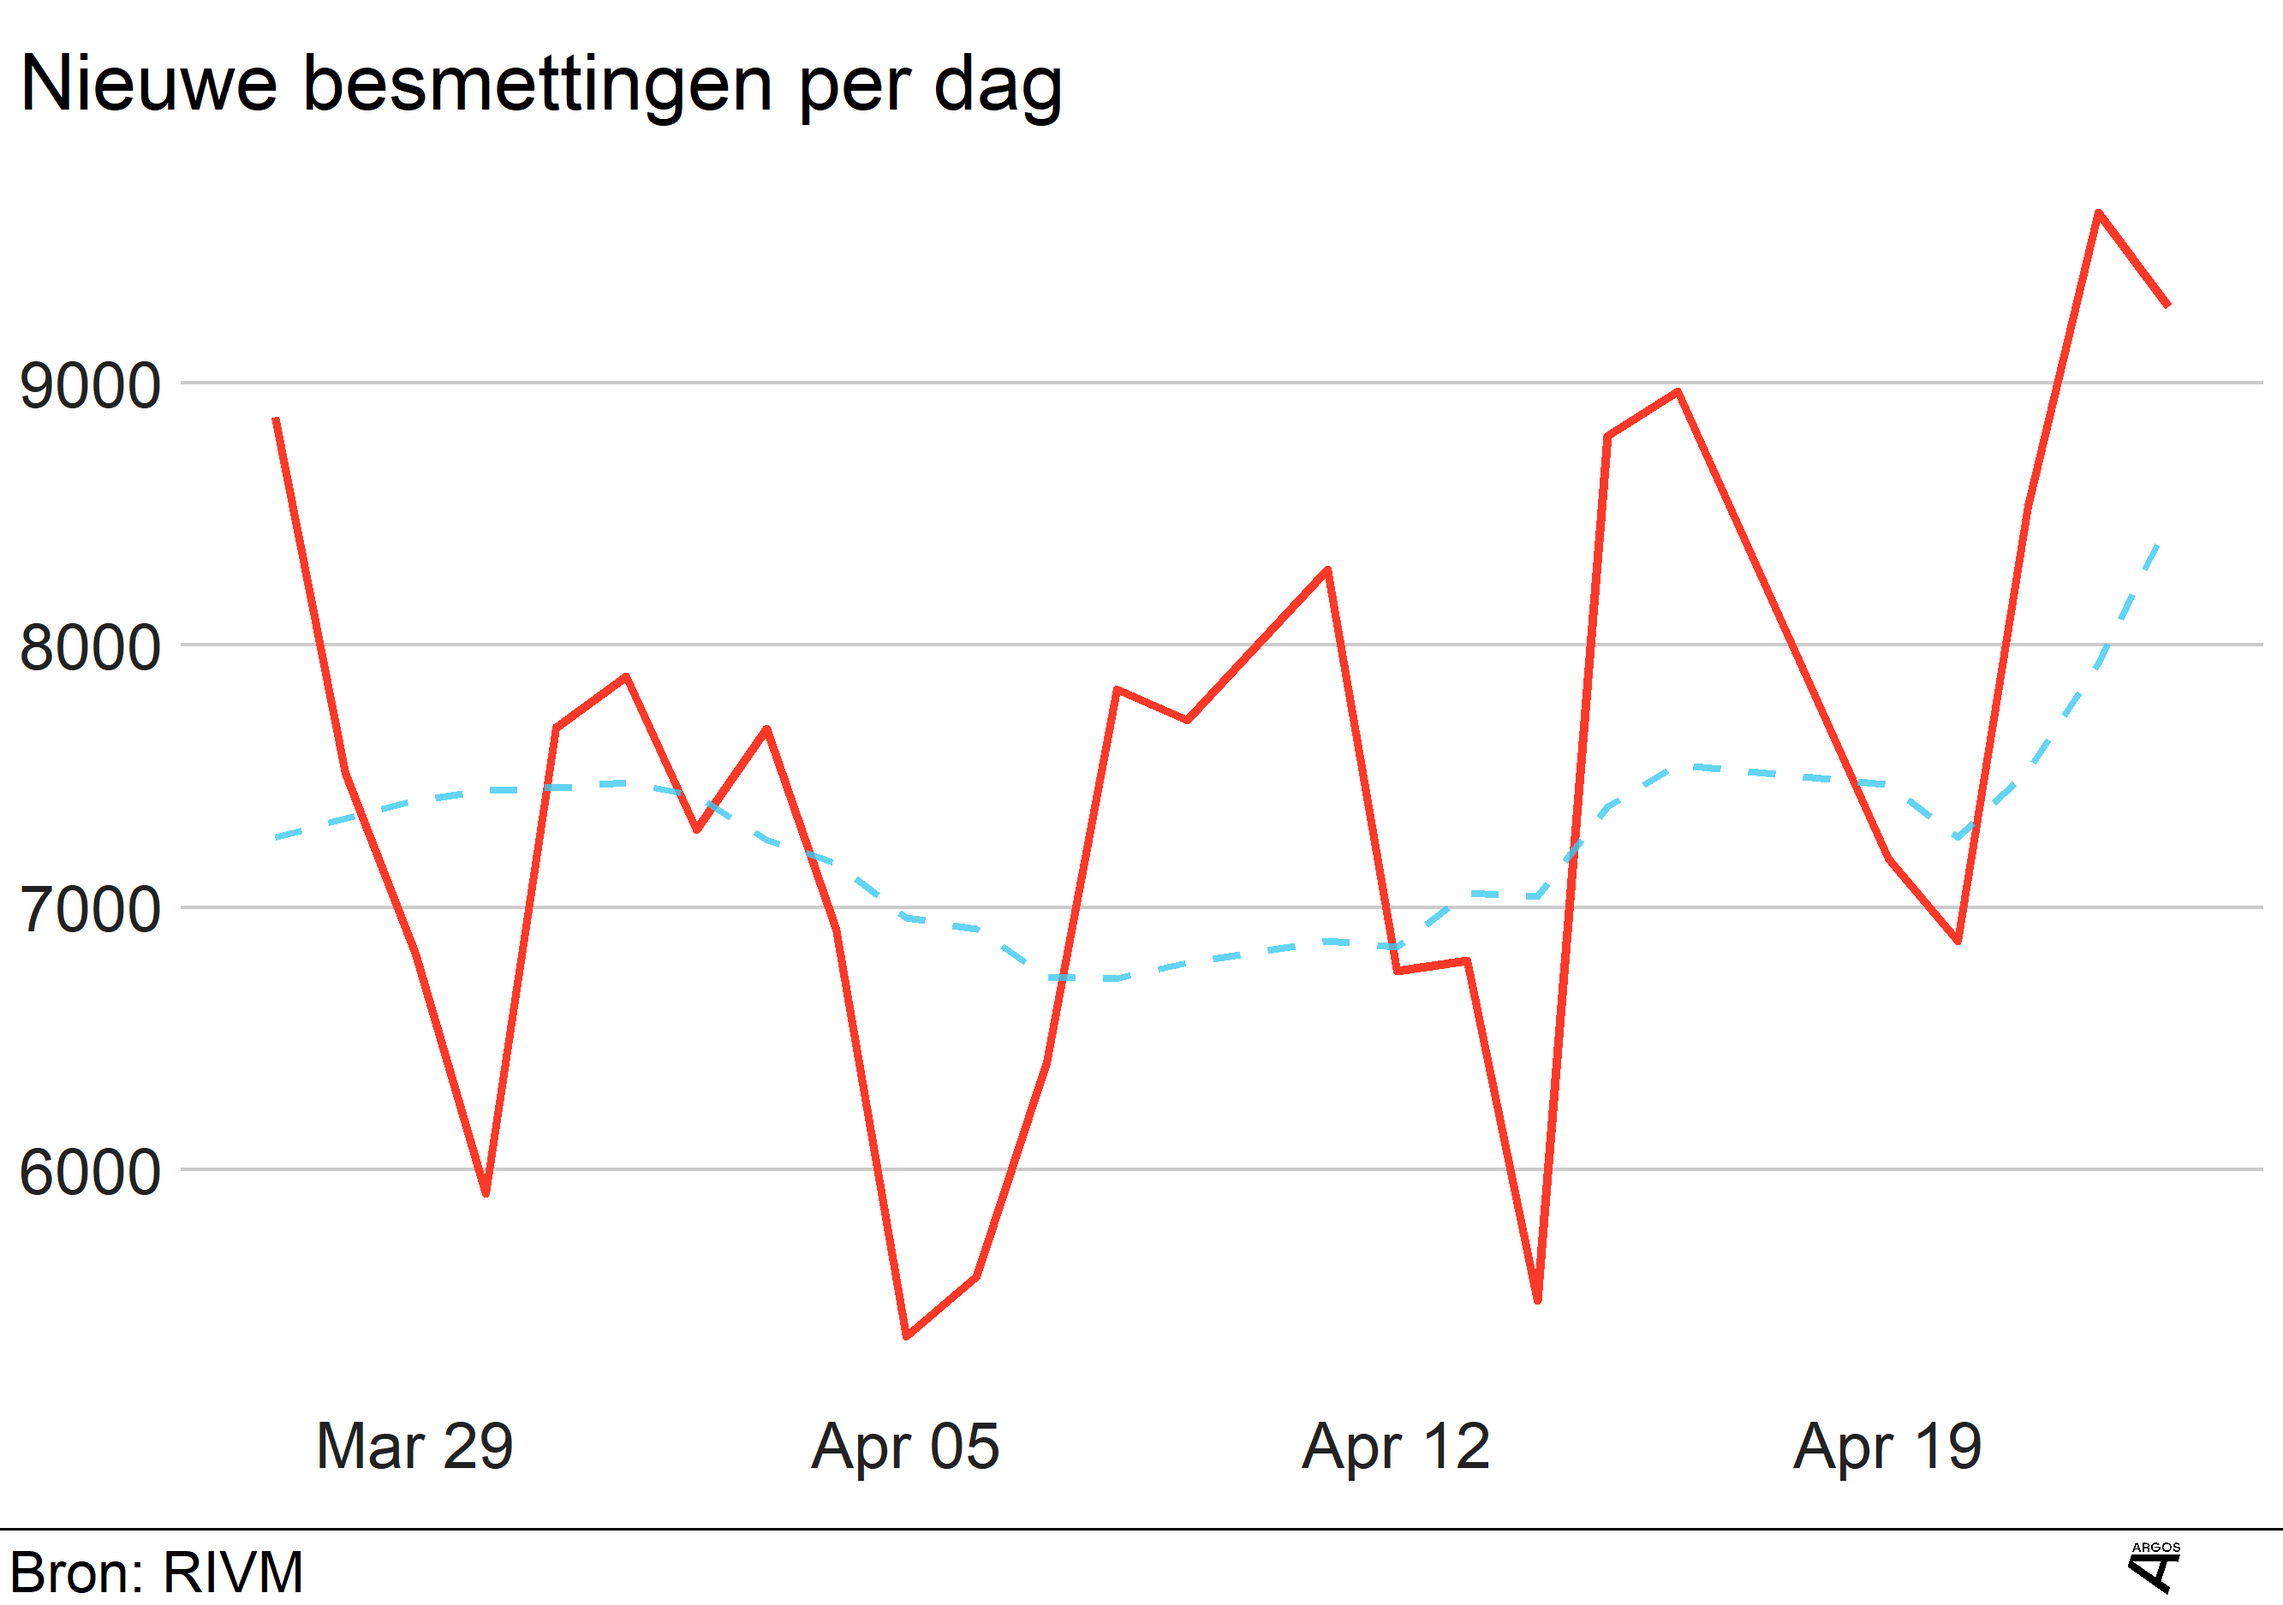
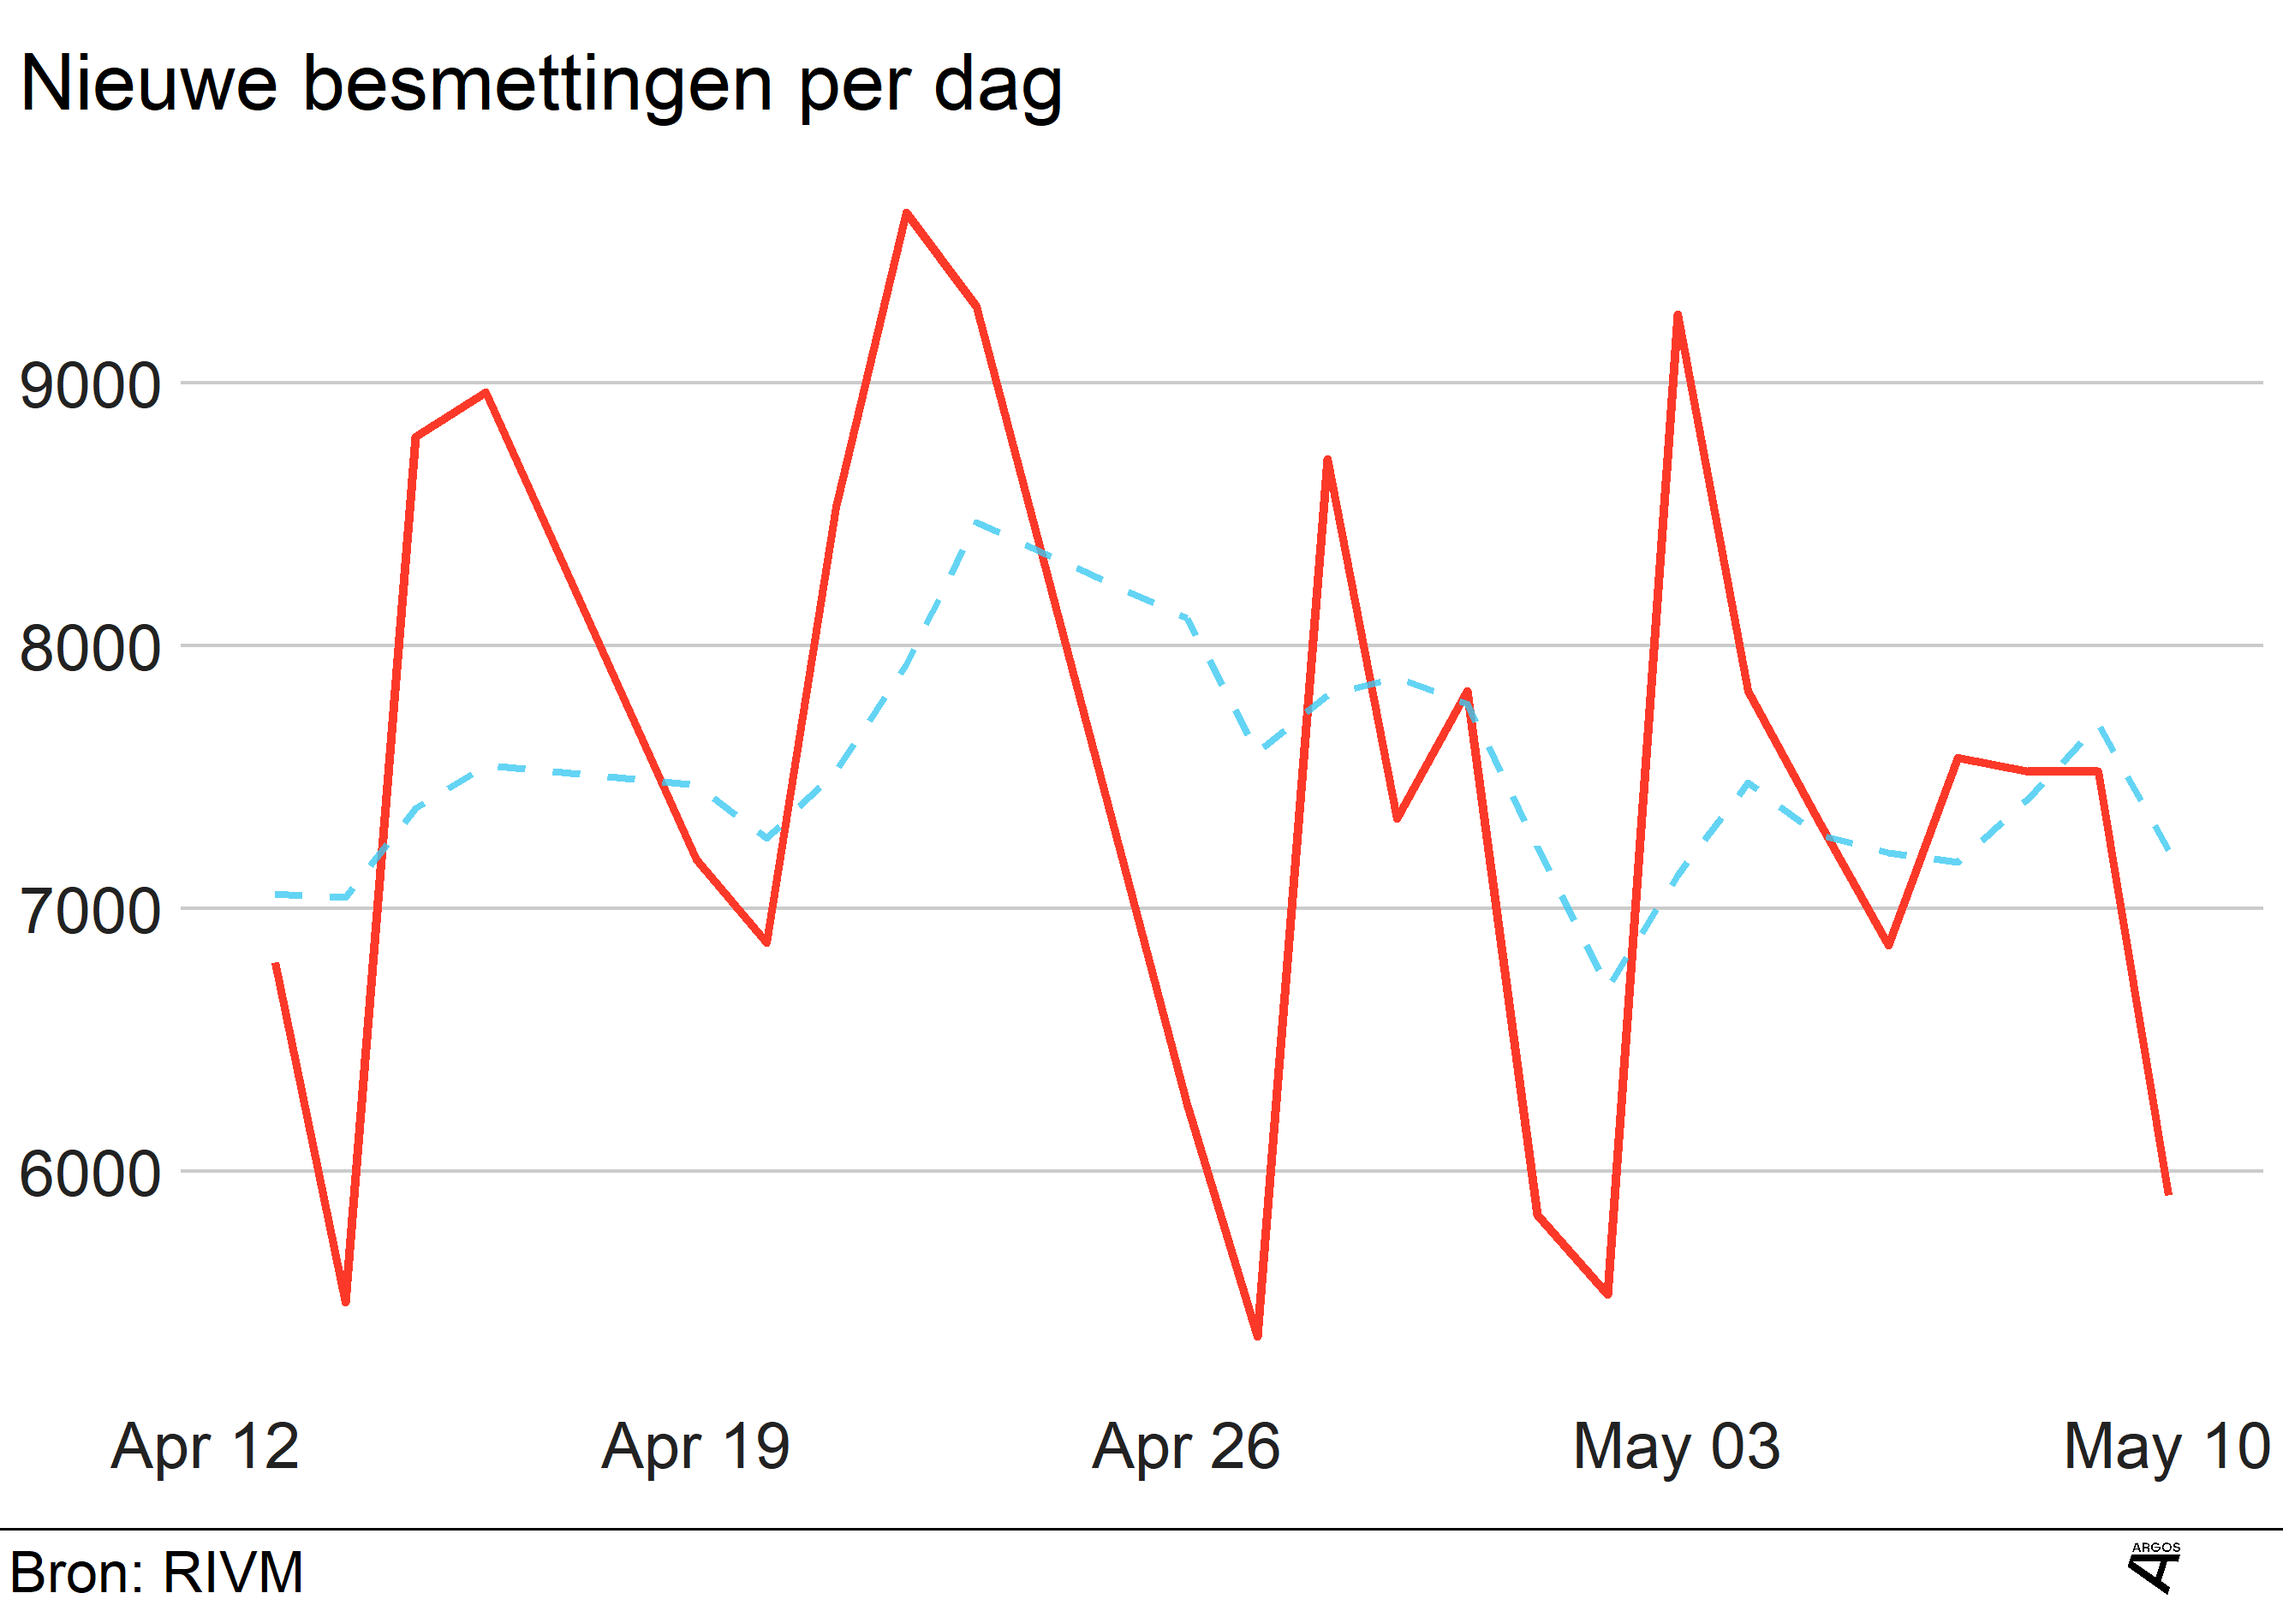
week 11 mei tikker

diff --git a/radio1_tekst.html b/radio1_tekst.html
@@ -11,7 +11,7 @@
 
 <meta name="author" content="Door Reinier Tromp" />
 
-<meta name="date" content="2021-04-23" />
+<meta name="date" content="2021-05-10" />
 
 <title>De Argos/NPO Radio 1 Coronatikker</title>
 
@@ -181,7 +181,7 @@ summary {
 
 <h1 class="title toc-ignore">De Argos/NPO Radio 1 Coronatikker</h1>
 <h4 class="author">Door Reinier Tromp</h4>
-<h4 class="date">23 April 2021</h4>
+<h4 class="date">10 May 2021</h4>
 
 </div>
 
@@ -191,28 +191,28 @@ summary {
 <h2>Nieuwe coronacijfers vandaag:</h2>
 <div id="bevestigde-besmettingen" class="section level3">
 <h3>Bevestigde besmettingen</h3>
-<p>Nieuwe besmettingen: <strong>9292</strong></p>
-<p>Totaal besmettingen: <strong>1445064</strong></p>
+<p>Nieuwe besmettingen: <strong>5910</strong></p>
+<p>Totaal besmettingen: <strong>1565880</strong></p>
 </div>
 <div id="lcps-ziekenhuizen" class="section level3">
 <h3>LCPS Ziekenhuizen</h3>
-<p>Nu op de verpleegafdeling:<strong>1.776 (-67</strong></p>
-<p>Nieuwe opnames verpleeg: <strong>237</strong></p>
+<p>Nu op de verpleegafdeling:<strong>1.730 (+62</strong></p>
+<p>Nieuwe opnames verpleeg: <strong>183</strong></p>
 </div>
 <div id="lcps-ic" class="section level3">
 <h3>LCPS IC</h3>
-<p>Nu op de IC: <strong>837 (-2</strong></p>
-<p>Nieuwe opnames: <strong>49</strong></p>
+<p>Nu op de IC: <strong>757 (-10</strong></p>
+<p>Nieuwe opnames: <strong>38</strong></p>
 </div>
 <div id="intensive-care-nice" class="section level3">
 <h3>Intensive Care NICE:</h3>
-<p>Nu op de IC: <strong>836</strong></p>
-<p>Nieuw op de IC: <strong>52</strong></p>
+<p>Nu op de IC: <strong>758</strong></p>
+<p>Nieuw op de IC: <strong>51</strong></p>
 </div>
 <div id="overleden" class="section level3">
 <h3>Overleden</h3>
-<p>Nieuwe doden: <strong>14</strong></p>
-<p>Totaal aantal doden: <strong>17016</strong></p>
+<p>Nieuwe doden: <strong>17</strong></p>
+<p>Totaal aantal doden: <strong>17340</strong></p>
 </div>
 </div>
 
